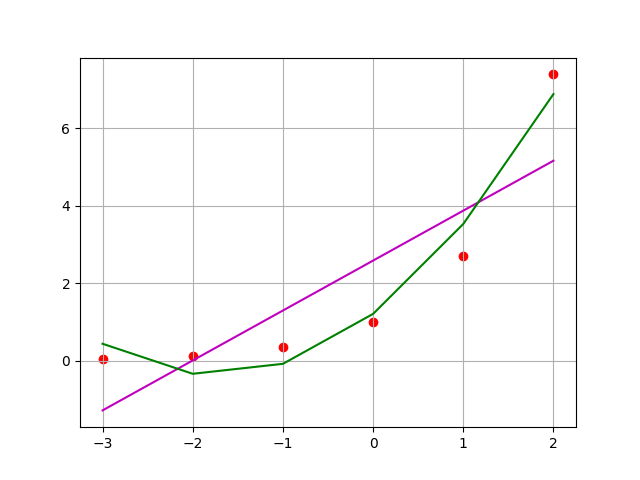
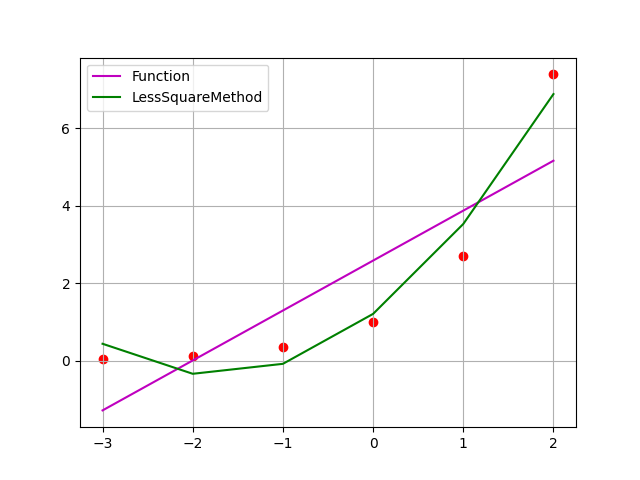
Add fixes

Changed region(s): [[0.125, 0.125, 0.4062, 0.2188]]

diff --git a/Lab3/NM_3_5.py b/Lab3/NM_3_5.py
@@ -39,16 +39,16 @@ def simpson(x, h):
 
 
 def runge_Romberg(res, true_value):
-    k = res[0]['h'] / res[1]['h']
-    err_rec = [res[0]['rec'] + (res[0]['rec'] - res[1]['rec']) / (k ** 2 - 1),
-               abs(res[0]['rec'] - true_value) / (k ** 2 - 1)]
+    k = res[1]['h'] / res[0]['h']
+    val_rec = [res[0]['rec'] + (res[0]['rec'] - res[1]['rec']) / (k ** 2 - 1),
+               abs(res[0]['rec'] + (res[0]['rec'] - res[1]['rec']) / (k ** 2 - 1) - true_value)]
 
-    err_trp = [res[0]['trp'] + (res[0]['trp'] - res[1]['trp']) / (k ** 2 - 1),
-               abs(res[0]['trp'] - true_value) / (k ** 2 - 1)]
+    val_trp = [res[0]['trp'] + (res[0]['trp'] - res[1]['trp']) / (k ** 2 - 1),
+               abs(res[0]['trp'] + (res[0]['trp'] - res[1]['trp']) / (k ** 2 - 1) - true_value)]
 
-    err_smp = [res[0]['smp'] + (res[0]['smp'] - res[1]['smp']) / (k ** 4 - 1),
-               abs(res[0]['smp'] - true_value) / (k ** 4 - 1)]
-    return {'rec': err_rec, 'trp': err_trp, 'smp': err_smp}
+    val_smp = [res[0]['smp'] + (res[0]['smp'] - res[1]['smp']) / (k ** 4 - 1),
+               abs(res[0]['smp'] + (res[0]['smp'] - res[1]['smp']) / (k ** 4 - 1) - true_value)]
+    return {'rec': val_rec, 'trp': val_trp, 'smp': val_smp}
 
 
 if __name__ == '__main__':
@@ -58,6 +58,7 @@ if __name__ == '__main__':
     true_value = -0.04133027217305138
     res = []
     for h_i in h:
+        print('Current h =', h_i)
         X = get_x(x0, x, h_i)
         print(f'x = {X}')
         y = get_y(X)
@@ -84,7 +85,7 @@ if __name__ == '__main__':
     err = runge_Romberg(res, true_value)
 
     print('All errors:')
-    print(f'True value: {true_value}')
-    print('Rectangle to rectangle error: {}, rectangle to absolute error: {}'.format(err['rec'][0], err['rec'][1]))
-    print('Trapeze to trapeze error: {}, trapeze to absolute error {}'.format(err['trp'][0], err['trp'][1]))
-    print('Simpson to Simpson error: {}, Simpson to absolute error {}'.format(err['smp'][0], err['smp'][1]))
+    print(f'True value of integral: {true_value}')
+    print('Rectangle specified value: {}, rectangle absolute error: {}'.format(err['rec'][0], err['rec'][1]))
+    print('Trapeze   specified value: {}, trapeze absolute error {}'.format(err['trp'][0], err['trp'][1]))
+    print('Simpson   specified value: {}, Simpson absolute error {}'.format(err['smp'][0], err['smp'][1]))

diff --git a/Lab3/NM_3_3.py b/Lab3/NM_3_3.py
@@ -15,7 +15,7 @@ def func(x, values):
 
 
 def sse(f, y):
-    return sum([f_i - y_i for f_i, y_i in zip(f, y)])
+    return round(sum([(f_i - y_i) ** 2 for f_i, y_i in zip(f, y)]), 5)
 
 
 def mls(n, x, y):
@@ -56,11 +56,17 @@ if __name__ == '__main__':
         coefs.append(mls(degree, x, y))
         print(f_printer(coefs[degree - 1]))
         F.append([func(i, coefs[degree - 1]) for i in x])
-        err.append(sse(F[0], y))
+        err.append(sse(F[degree - 1], y))
 
     plt.scatter(x, y, color='r')
-    plt.plot(x, F[0], color='m')
-    plt.plot(x, F[1], color='g')
+    plt.plot(x, F[0], color='m', label='Function')
+    plt.plot(x, F[1], color='g', label='LessSquareMethod')
+    plt.legend(loc='best')
     plt.grid()
     plt.savefig('3_3.png')
     plt.show()
+
+    k = 1
+    for i in err:
+        print(f'Error of F{k} = {i}')
+        k += 1
